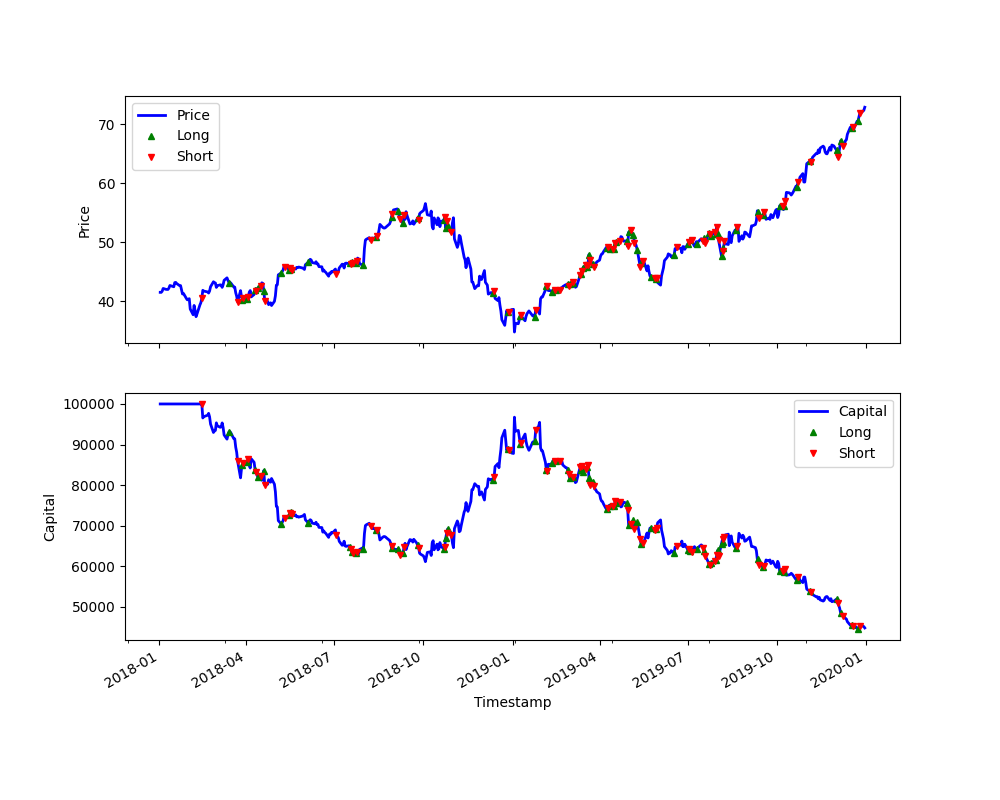
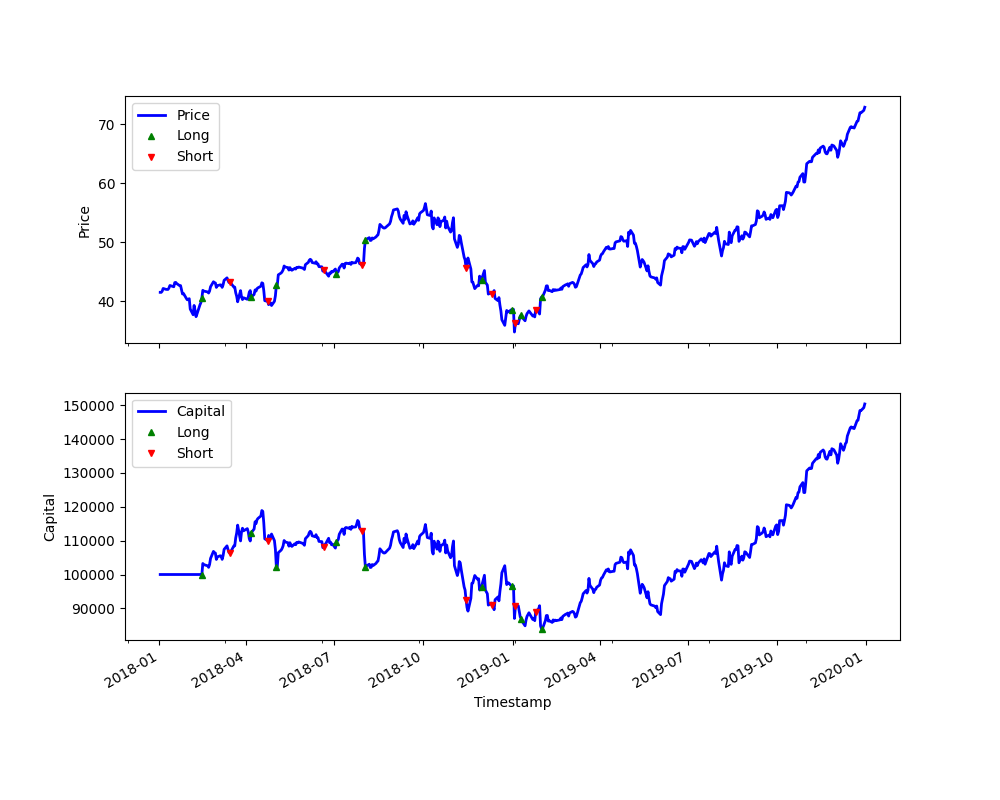
TDQN Agent and Trading Environment implementation update

diff --git a/src/ai_TDQN.py b/src/ai_TDQN.py
@@ -7,6 +7,7 @@ import torch.autograd as autograd
 import torch.nn.functional as F
 import ai_Network as network
 import math
+import numpy as np
 
 tdqnSettings_ = namedtuple("tdqnSettings", ["gamma", "epsilonStart", "epsilonEnd", "epsilonDecay", "capacity",
                                             "learningRate", "targetUpdateFrequency", "batchSize", "gradientClipping", "targetNetworkUpdate"])
@@ -42,9 +43,10 @@ class ReplayMemory():
 
 class TDQNAgent():
     
-    def __init__(self, tdqnSettings, networkSettings, optimSettings):
+    def __init__(self, TradingEnvironment, tdqnSettings, networkSettings, optimSettings):
 
         #random seed
+        self.TradingEnvironment = TradingEnvironment
         self.tdqnSettings = tdqnSettings
         self.networkSettings = networkSettings
         self.optimSettings = optimSettings
@@ -68,6 +70,74 @@ class TDQNAgent():
         st = self.tdqnSettings
         self.epsilonValue = st.epsilonEnd + (st.epsilonStart - st.epsilonEnd) * math.exp(-1 * self.iteration / st.epsilonDecay)
         return self.epsilonValue
+
+    def DataPreProcessing(self):
+        close = self.TradingEnvironment.dataFrame.Close.values
+        low = self.TradingEnvironment.dataFrame.Low.values
+        high = self.TradingEnvironment.dataFrame.High.values
+        volume = self.TradingEnvironment.dataFrame.Volume.values
+
+        normalizationCoefficients = {"Returns": [], "DeltaPrice": [], "HighLow": [0,1], "Volume": []}
+        margin = 1
+
+        returns = [abs((close[i]-close[i-1])/close[i-1]) for i in range(1, len(close))]
+        normalizationCoefficients["Returns"] = [0, np.max(returns)*margin]
+
+        deltaPrice = [abs(high[i]-low[i]) for i in range(len(low))]
+        normalizationCoefficients["DeltaPrice"] = [0, np.max(deltaPrice)*margin]
+
+        normalizationCoefficients["Volume"] = [np.min(volume)/margin, np.max(volume)*margin]
+
+        return normalizationCoefficients
+
+    def StateProcessing(self, state):
+        coeffs = self.DataPreProcessing()
+
+        closePrices = [state[0][i] for i in range(len(state[0]))]
+        lowPrices = [state[1][i] for i in range(len(state[1]))]
+        highPrices = [state[2][i] for i in range(len(state[2]))]
+        volumes = [state[3][i] for i in range(len(state[3]))]
+
+        # 1. Close price => returns => MinMax normalization
+        returns = [(closePrices[i]-closePrices[i-1])/closePrices[i-1] for i in range(1, len(closePrices))]
+        if coeffs["Returns"][0] != coeffs["Returns"][1]:
+            state[0] = [((x - coeffs["Returns"][0])/(coeffs["Returns"][1] - coeffs["Returns"][0])) for x in returns]
+        else:
+            state[0] = [0 for x in returns]
+        # 2. Low/High prices => Delta prices => MinMax normalization
+        deltaPrice = [abs(highPrices[i]-lowPrices[i]) for i in range(1, len(lowPrices))]
+        if coeffs["DeltaPrice"][0] != coeffs["DeltaPrice"][1]:
+            state[1] = [((x - coeffs["DeltaPrice"][0])/(coeffs["DeltaPrice"][1] - coeffs["DeltaPrice"][0])) for x in deltaPrice]
+        else:
+            state[1] = [0 for x in deltaPrice]
+            print("Zero State")
+        # 3. Close/Low/High prices => Close price position => No normalization required
+        closePricePosition = []
+        for i in range(1, len(closePrices)):
+            deltaPrice = abs(highPrices[i]-lowPrices[i])
+            if deltaPrice != 0:
+                item = abs(closePrices[i]-lowPrices[i])/deltaPrice
+            else:
+                item = 0.5
+            closePricePosition.append(item)
+        if coeffs["HighLow"][0] != coeffs["HighLow"][1]:
+            state[2] = [((x - coeffs["HighLow"][0])/(coeffs["HighLow"][1] - coeffs["HighLow"][0])) for x in closePricePosition]
+        else:
+            state[2] = [0.5 for x in closePricePosition]
+        # 4. Volumes => MinMax normalization
+        volumes = [volumes[i] for i in range(1, len(volumes))]
+        if coeffs["Volume"][0] != coeffs["Volume"][1]:
+            state[3] = [((x - coeffs["Volume"][0])/(coeffs["Volume"][1] - coeffs["Volume"][0])) for x in volumes]
+        else:
+            state[3] = [0 for x in volumes]
+
+       
+        # Process the state structure to obtain the appropriate format
+        state = [item for sublist in state for item in sublist]
+
+        return state
+
+
 
 
     def LearnFromMemory(self):

diff --git a/original_src/DRLAlgoTrade/TDQN.py b/original_src/DRLAlgoTrade/TDQN.py
@@ -367,6 +367,7 @@ class TDQN:
         self.policyNetwork.eval()
         self.targetNetwork.eval()
 
+
         # Set the Deep Learning optimizer
         self.optimizer = optim.Adam(self.policyNetwork.parameters(), lr=learningRate, weight_decay=L2Factor)
 
@@ -396,6 +397,7 @@ class TDQN:
         lowPrices = tradingData['Low'].tolist()
         highPrices = tradingData['High'].tolist()
         volumes = tradingData['Volume'].tolist()
+
 
         # Retrieve the coefficients required for the normalization
         coefficients = []
@@ -428,6 +430,7 @@ class TDQN:
         OUTPUTS: - state: Processed RL state.
         """
 
+
         # Normalization of the RL state
         closePrices = [state[0][i] for i in range(len(state[0]))]
         lowPrices = [state[1][i] for i in range(len(state[1]))]
@@ -440,12 +443,14 @@ class TDQN:
             state[0] = [((x - coefficients[0][0])/(coefficients[0][1] - coefficients[0][0])) for x in returns]
         else:
             state[0] = [0 for x in returns]
+            print("Zero State")
         # 2. Low/High prices => Delta prices => MinMax normalization
         deltaPrice = [abs(highPrices[i]-lowPrices[i]) for i in range(1, len(lowPrices))]
         if coefficients[1][0] != coefficients[1][1]:
             state[1] = [((x - coefficients[1][0])/(coefficients[1][1] - coefficients[1][0])) for x in deltaPrice]
         else:
             state[1] = [0 for x in deltaPrice]
+            print("Zero State")
         # 3. Close/Low/High prices => Close price position => No normalization required
         closePricePosition = []
         for i in range(1, len(closePrices)):
@@ -465,9 +470,11 @@ class TDQN:
             state[3] = [((x - coefficients[3][0])/(coefficients[3][1] - coefficients[3][0])) for x in volumes]
         else:
             state[3] = [0 for x in volumes]
-        
+
+       
         # Process the state structure to obtain the appropriate format
         state = [item for sublist in state for item in sublist]
+
 
         return state
 
@@ -519,10 +526,15 @@ class TDQN:
         # Choose the best action based on the RL policy
         with torch.no_grad():
             tensorState = torch.tensor(state, dtype=torch.float, device=self.device).unsqueeze(0)
+            print(self.policyNetwork(tensorState))
             QValues = self.policyNetwork(tensorState).squeeze(0)
+            print(QValues)
             Q, action = QValues.max(0)
+            print(Q, action)
             action = action.item()
             Q = Q.item()
+            print(Q, action)
+            input("Wait")
             QValues = QValues.cpu().numpy()
             return action, Q, QValues
 
@@ -582,6 +594,7 @@ class TDQN:
 
             # Sample a batch of experiences from the replay memory
             state, action, reward, nextState, done = self.replayMemory.sample(batchSize)
+
 
             # Initialization of Pytorch tensors for the RL experience elements
             state = torch.tensor(state, dtype=torch.float, device=self.device)

diff --git a/original_src/DRLAlgoTrade/test.py b/original_src/DRLAlgoTrade/test.py
@@ -4,37 +4,40 @@ import TDQN as tdqn
 import torch
 import random
 
-device = torch.device('cuda:'+str(0) if torch.cuda.is_available() else 'cpu')
+startingDate = '2012-1-1'
+endingDate = '2020-1-1'
+splitingDate = '2018-1-1'
 
+stateLength = 30
+observationSpace = 1 + (stateLength-1)*4
+actionSpace = 2
 
-startingDate = '2020-01-01'
-endingDate = '2022-01-01'
+numberOfEpisodes = 50
+trainingParameters = [numberOfEpisodes]
 
-myte = te.TradingEnv("AAPL", startingDate=startingDate, endingDate=endingDate, money=100_000, startingPoint=1)
+# startingDate = '2020-01-01'
+# endingDate = '2022-01-01'
 
-print(myte.data.head())
-myte.setStartingPoint(50)
+myte = te.TradingEnv("AAPL", startingDate=startingDate, endingDate=endingDate, money=100_000)
 
+agent = tdqn.TDQN(observationSpace=observationSpace, actionSpace=actionSpace)
+# agent.training(myte, trainingParameters=trainingParameters, verbose=True, rendering=False, plotTraining=False, showPerformance=False)
+
+mem = tdqn.ReplayMemory()
 random.seed(10)
+for i in range(500):
+    action = random.randint(0,1)
+    state, reward, done, info = myte.step(action)
+    mem.push(state, action, reward, state, done)
 
-# for i in range(50):
-#     myte.step(1)
-print(myte.data[50-myte.stateLength:50])
-# print(len(myte.state))
-
-closePrices = [myte.state[0][i] for i in range(len(myte.state[0]))]
-lowPrices = [myte.state[1][i] for i in range(len(myte.state[1]))]
-highPrices = [myte.state[2][i] for i in range(len(myte.state[2]))]
-volumes = [myte.state[3][i] for i in range(len(myte.state[3]))]
-
-state = [item for sublist in myte.state for item in sublist]
-print(state)
-tensorState = torch.tensor(state, dtype=torch.float, device=device).unsqueeze(0)
-
-print(tensorState)
-
-print(closePrices)
+# print(myte.data[525:535][["Cash", "Action", "Holdings"]])
 
 
-# dataAugmentation = DataAugmentation()
-# trainingEnvList = dataAugmentation.generate(myte)
+coeffs = agent.getNormalizationCoefficients(myte)
+myte.setStartingPoint(60)
+state = agent.processState(myte.state, coeffs)
+
+for s in state:
+    print("{:.5f}".format(s))
+
+# print(coeffs)

diff --git a/src/main.py b/src/main.py
@@ -22,23 +22,35 @@ optimSettings = tdqn.optimSettings_(L2Factor=0.000001)
 
 
 Horizon = namedtuple("Horizon", ["start", "end", "interval"])
-isctrHorizon = Horizon("2020-01-01", "2022-01-01", "1d")
+startingDate = '2012-1-1'
+endingDate = '2020-1-1'
+splittingDate = '2018-1-1'
+isctrHorizon = Horizon(startingDate, endingDate, "1d")
 aapl = to.StockHandler("AAPL", yf.download, yf.download, isctrHorizon)
 pos = to.DummyPosition(aapl)
 pos.dataFrame["Close"] = pos.dataFrame["Adj Close"]
 
-random.seed(10)
-
-
 myte = te.TradingEnvironment(pos)
-myte.SetCustomStartingPoint(50)
-
-for i in range(50):
-    action = random.randrange(0,1)
-    myte.step(action)
-print(myte.dataFrame[50-myte.stateLength:50])
-# print(myte.state)
-
-tensorState = torch.tensor(myte.state, dtype=torch.float, device=device).unsqueeze(0)
 
 
+
+mem = tdqn.ReplayMemory(100000)
+random.seed(10)
+for i in range(500):
+    action = random.randint(0,1)
+    state, reward, done, info = myte.step(action)
+    mem.Push(state, action, reward, state, done)
+
+# print(myte.dataFrame[525:535][["Cash", "Action", "Holdings"]])
+
+
+agent = tdqn.TDQNAgent(myte, tdqnSettings, networkSettings, optimSettings)
+# coeffs = agent.DataPreProcessing()
+myte.SetCustomStartingPoint(60)
+state = agent.StateProcessing(myte.state)
+# print(state, sep='\n')
+
+for s in state:
+    print("{:.5f}".format(s))
+
+# print(coeffs)

diff --git a/src/tf_TradingOperations.py b/src/tf_TradingOperations.py
@@ -148,7 +148,7 @@ class DummyPosition():
                 self.dataFrame["Action"][tick] = self.SHORT
         else:
             self.dataFrame["Lots"][tick] = int(self.dataFrame["Cash"][tick] // (self.dataFrame["Close"][tick] * (1 + self.tradingFee)))
-            self.dataFrame["Cash"][tick] = self.dataFrame["Lots"][tick] * self.dataFrame["Close"][tick]
+            self.dataFrame["Cash"][tick] = self.dataFrame["Cash"][prev] + self.dataFrame["Lots"][tick] * self.dataFrame["Close"][tick]
             self.dataFrame["Holdings"][tick] = -self.dataFrame["Lots"][tick] * self.dataFrame["Close"][tick]
             self.dataFrame["Action"][tick] = self.SHORT
 

diff --git a/original_src/DRLAlgoTrade/tradingEnv.py b/original_src/DRLAlgoTrade/tradingEnv.py
@@ -356,7 +356,7 @@ class TradingEnv(gym.Env):
         self.info = {'State' : otherState, 'Reward' : otherReward, 'Done' : self.done}
 
         # Return the trading environment feedback to the RL trading agent
-        print("REWARD: {:.3f}".format(self.reward))
+        # print("REWARD: {:.3f}".format(self.reward))
         return self.state, self.reward, self.done, self.info
 
 

diff --git a/src/ai_TradingEnvironment.py b/src/ai_TradingEnvironment.py
@@ -79,7 +79,7 @@ class TradingEnvironment(gym.Env):
         # if(self.tick == self.dataFrame.shape[0]):
         #     self.done = 1
 
-        print("REWARD: {:.3f}".format(self.reward))
+        # print("REWARD: {:.3f}".format(self.reward))
 
         return self.state, self.reward, self.done, self.oppositeActionInfo         
 
